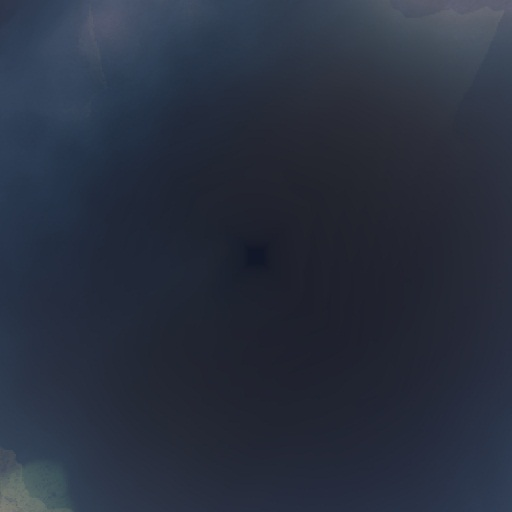
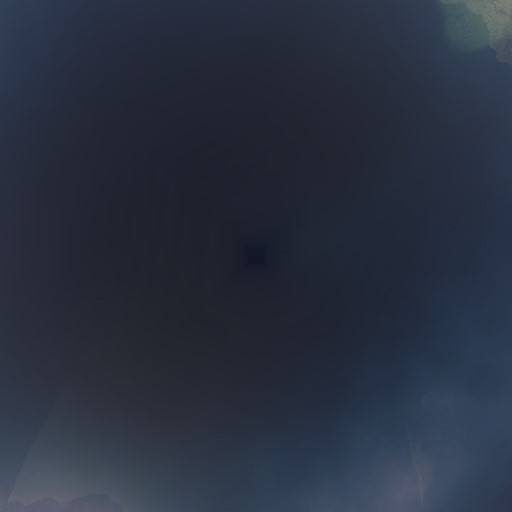
skyboxes

diff --git a/src/engine/engine/objloader.ts b/src/engine/engine/objloader.ts
@@ -19,9 +19,9 @@ const defaultVT = [
     0, 1
 ];
 
-export default async function queryObjAsync(objUrl: ObjUrl,scale:number): Promise<UniversalObject[]> {
+export default async function queryObjAsync(objUrl: ObjUrl, scale: number): Promise<UniversalObject[]> {
 
-    const loader = new ObjLoader(objUrl,scale);
+    const loader = new ObjLoader(objUrl, scale);
     await loader.initAsync();
     return await loader.getObjAsync();
 }
@@ -31,13 +31,13 @@ class materialPart {
     public vt: number[] = [];
     public positions: number[] = [];
     public indices: number[] = [];
-    public normals:number[]=[];
+    public normals: number[] = [];
     public count: number = 0;
 }
 
 class ObjLoader {
     protected filename: string;
-    protected scale:number;
+    protected scale: number;
 
     protected vertices: Vertex[] = [];
     protected normals: Normal[] = [];
@@ -54,9 +54,9 @@ class ObjLoader {
     protected materialParts: materialPart[] = [];
     protected currentMaterialPart: materialPart;
 
-    constructor(filename: string,scale:number) {
+    constructor(filename: string, scale: number) {
         this.filename = filename;
-        this.scale=scale;
+        this.scale = scale;
     }
 
     async initAsync() {
@@ -72,13 +72,13 @@ class ObjLoader {
         let resObjs: UniversalObject[] = [];
         for (let entry of this.materialParts) {
             let material: Material;
-            if (entry.material == undefined) {
-                material = new Material([-1, -1, -1], [-1, -1, -1], [-1, -1, -1], 30);
+            if (entry.material.Kd.r < 0) {
+                material = new Material([-1, -1, -1], [-1, -1, -1], [-1, -1, -1], -1);
             }
             else {
                 material = entry.material.changeToMaterial(30);
             }
-            console.log("materialParts", this.materialParts);
+            console.log("materialParts", entry);
 
             let obj: UniversalObject;
             const img = await loadImageAsync(entry.material.textureFile);
@@ -125,15 +125,6 @@ class ObjLoader {
                     let mtl = new MTLDoc();
                     this.onReadMTLFile(content, mtl);
                     continue;
-
-                // TODO: 默认一个obj文件里只有一个obj，默认一个obj只有一个mtl（暂时
-                // case 'o':
-                // case 'g':   // Read Object name
-                //     let object = this.parseObjectName(sp);
-                //     this.objects.push(object);
-                //     currentObject = object;
-                //     //这是一个浅复制，可以简单地认为和object指向同一块内容
-                //     continue; // Go to the next line
                 case 'v':   // Read vertex
                     let vertex = ObjLoader.parseVertex(sp, this.scale);
                     this.vertices.push(vertex);
@@ -156,7 +147,6 @@ class ObjLoader {
                     this.currentMaterialPart.material = this.material[this.useMaterial];
                     continue;
                 case 'f':
-                    //可以接受两种情况：1.只有mtl没有纹理，可以多种mtl 2.只有mtl没有纹理，只能有一种纹理
                     if (!mtlUsed) {
                         mtlUsed = true;
                         this.currentMaterialPart = new materialPart();
@@ -232,7 +222,7 @@ class ObjLoader {
             }
         }
 
-        if (face.nIndices[0]==-1) {
+        if (face.nIndices[0] == -1) {
             let v0 = [
                 this.currentMaterialPart.positions[3 * face.vIndices[2]],
                 this.currentMaterialPart.positions[3 * face.vIndices[2] + 1],
@@ -393,9 +383,9 @@ class namedMaterial {
 
     constructor(name: string) {
         this.name = name;
-        this.Ka = new Color(0.2, 0.2, 0.2, 1);
-        this.Kd = new Color(0.8, 0.8, 0.8, 1);
-        this.Ks = new Color(0, 0, 0, 1);
+        this.Ka = new Color(-1, -1, -1, 1);
+        this.Kd = new Color(-1, -1, -1, 1);
+        this.Ks = new Color(-1, -1, -1, 1);
         this.d = 1;
     }
 

diff --git a/src/index.ts b/src/index.ts
@@ -23,9 +23,9 @@ const fov = 45 * Math.PI / 180;
 const aspect = config.WIDTH / config.HEIGHT;
 const near = 0.1;
 const far = 100.0;
-const pos: Pos = [5, 0, -9];
+const pos: Pos = [0, 0, 0];
 const camera = new Camera(pos, fov, aspect, near, far);
-camera.lookAt([-6, 0, 12], [0.0, 1.0, 0.0]);
+camera.lookAt([0, -6, 15], [0.0, 1.0, 0.0]);
 
 // Create scene.
 const scene = new Scene(camera);
@@ -39,6 +39,13 @@ scene.addLight(pointLight);
 // Add a direct light.
 const direction: Vec3 = [0, 0, -1];
 const directLight = new DirectLight(direction, color, ambientCoeff, true);
+
+queryObjAsync("assets/module/skybox.obj", 50).then(objects => {
+    for (let entry of objects) {
+        scene.addObject(entry);
+        entry.translate([0, 41.45, 0]);
+    }
+});
 
 queryObjAsync("/assets/module/cube.obj", 6).then(cube0 => {
     for (let entry of cube0) {
@@ -63,13 +70,13 @@ queryObjAsync("/assets/module/chair.obj", 4.4).then(cube0 => {
     }
 });
 
-//门
-queryObjAsync("/assets/module/door.obj", 0.035).then(cube0 => {
-    for (let entry of cube0) {
-        scene.addObject(entry);
-        entry.translate([1, -8.47, 12]);
-    }
-});
+// //门
+// queryObjAsync("/assets/module/door.obj", 0.035).then(cube0 => {
+//     for (let entry of cube0) {
+//         scene.addObject(entry);
+//         entry.translate([1, -8.47, 12]);
+//     }
+// });
 
 //垃圾桶
 queryObjAsync("/assets/module/poubelleInox.obj", 0.024).then(cube0 => {
@@ -171,7 +178,6 @@ queryObjAsync("/assets/module/ceilingFan.obj", 0.06).then(cube0 => {
     for (let entry of cube0) {
         scene.addObject(entry);
         entry.translate([-2, 1.5, 0]);
-        //entry.rotate([0,1,0],Math.PI*0.5);
     }
 });
 
